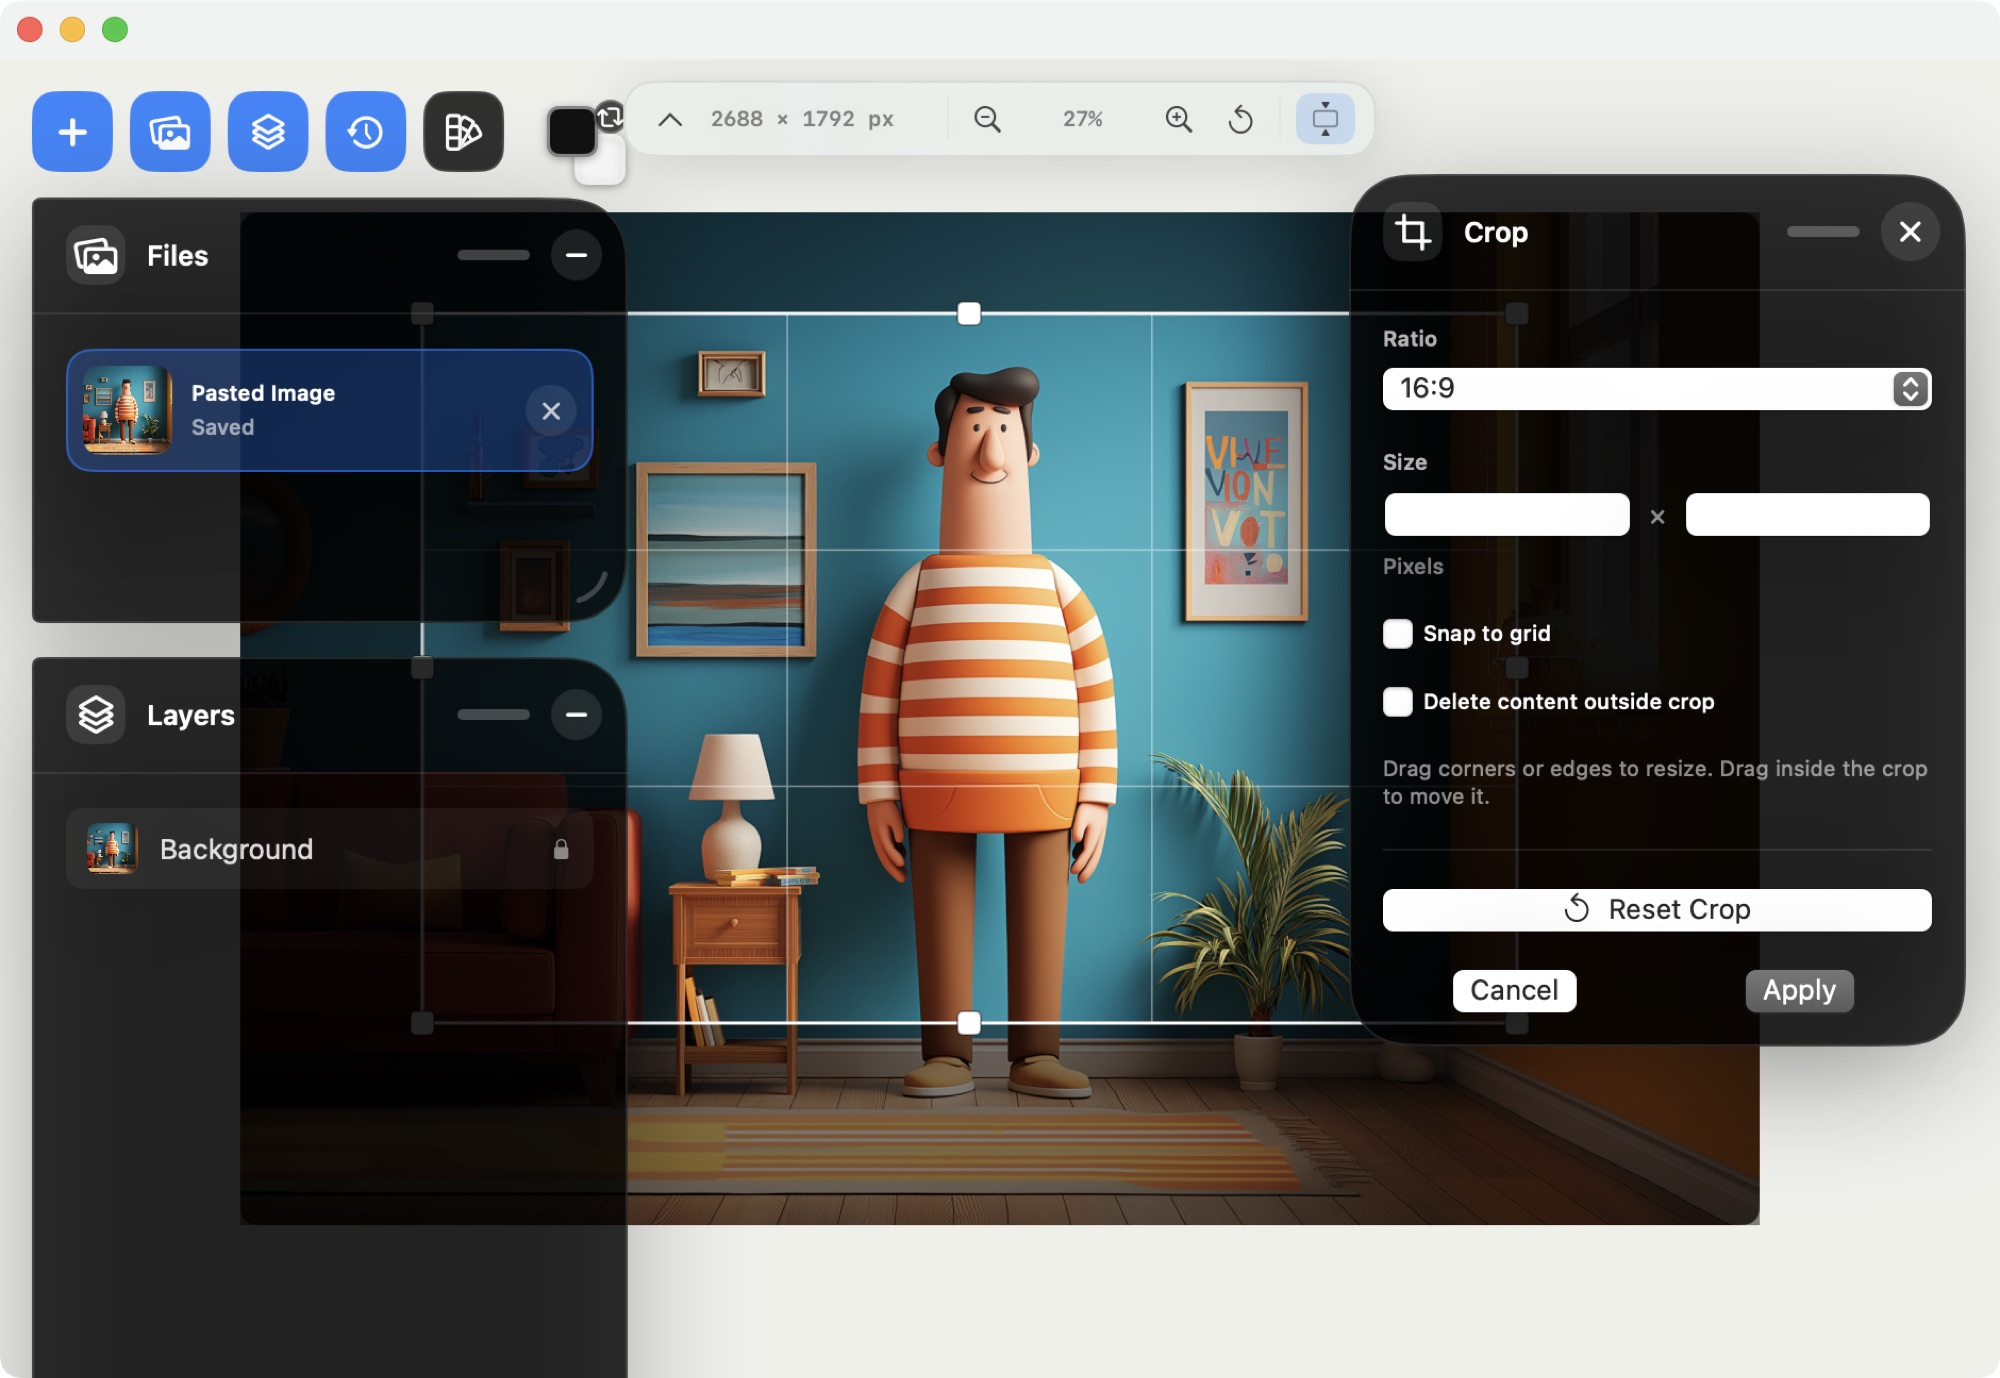
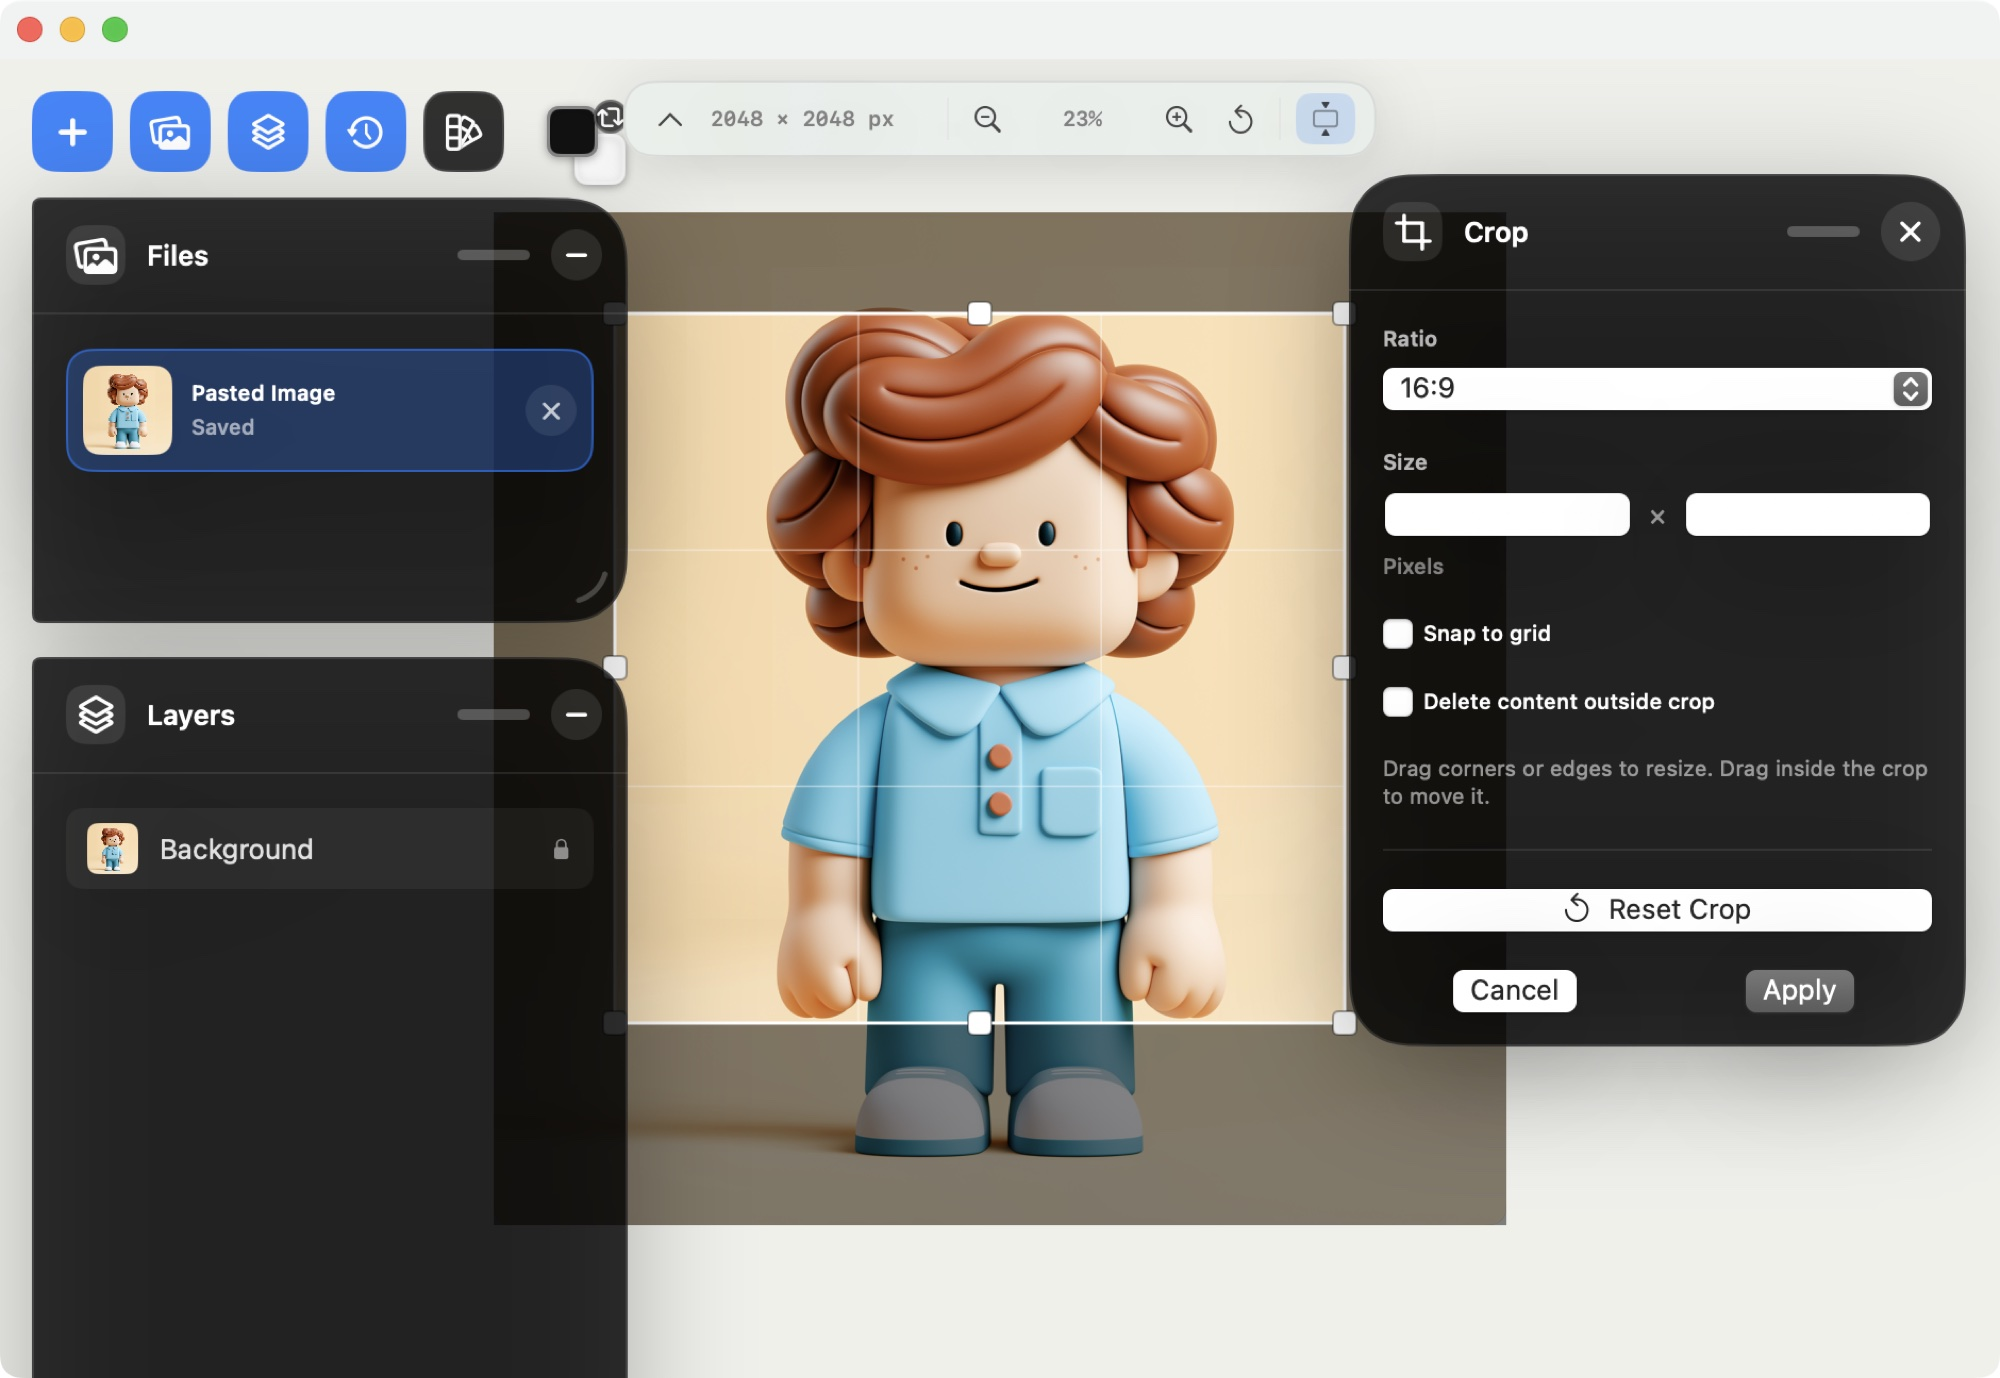
feat(website): bolder rounded sections on @sil/ui's colour strategy
Colour now follows @sil/ui's own pattern: a section sets --app-color (the
surface) and --app-text-color (the most-contrast shade of that same hue),
and everything inside inherits from those. Because the text colour is
derived rather than hand-picked, the palette no longer has to double as
ink and goes back to brand-true and bright — Fekthor's real #F0741E, a
proper light blue for ImageKid, saturated teals for the two utilities.

@sil/ui does generate --color-{name}-text automatically, but textColorShade
mixes only 80% toward the extreme, which lands at 2.4:1 on the orange and
2.3:1 on the cutout teal — unreadable as body text. The --app-text-color
values keep the same idea (a tinted dark of the same hue, not flat black)
pinned to 6:1.

Sections are rounded slabs now, inset with space between them, rather than
full-bleed stripes butted edge to edge. Even tones run the app colour at
full strength; odd tones are a soft wash of the same hue, so a page
alternates loud and quiet.

Homepage app cards are painted in their own app's colour at full strength
— that grid is what makes the family legible at a glance, so it is now the
loudest thing after the hero. Titles are larger and heavier throughout,
with tighter tracking.

The screenshot demo asset is the new character render, so every captured
app state shows the current artwork rather than the superseded painter
scene. All eight scenarios recaptured from the running app.

diff --git a/apps/website/src/styles/main.scss b/apps/website/src/styles/main.scss
@@ -2,24 +2,25 @@
   $project-colors: (
     "dark": #151820,
     "light": #f8f8f6,
-    // Per-app accents derived from the shipping app icons and accent colours,
-    // darkened to clear WCAG AA (4.5:1) on the light background, which the
-    // stylesheet test enforces for primary.
-    // ImageKid: its in-app accent. Fekthor: its real AccentColor (F0741E) —
-    // this used to be an unrelated purple. Cutout: the teal of its icon.
-    // Upscale keeps its established teal; its artwork is a skin-tone close-up
-    // with no signature hue of its own.
+    // Brand-true and bright. These are SURFACES — @sil/ui derives a matching
+    // --color-{name}-text for each, so they no longer have to double as ink.
     "primary": #0c71d1,
     "secondary": #0c71d1,
     "border": #151820,
-    "fekthor": #ba540c,
-    "upscale": #0e9a83,
-    "cutout": #157c96,
+    "imagekid": #57a8f5,
+    "fekthor": #f0741e,
+    "upscale": #12b39a,
+    "cutout": #1daace,
     "cream": #f7d9ae
   )
 );
 
 * { box-sizing: border-box; }
+
+:root {
+  // Sections are rounded slabs, not full-bleed stripes.
+  --radius-section: clamp(24px, 3vw, 48px);
+}
 
 html {
   width: 100%;
@@ -49,9 +50,9 @@ a { color: inherit; }
 button, a { -webkit-tap-highlight-color: transparent; }
 h1, h2, h3, p, ul, ol, figure { margin: 0; }
 h1, h2, h3 { font-family: var(--font-family-heading); font-weight: 600; letter-spacing: 0; }
-h1 { max-width: 18ch; font-size: clamp(var(--font-size-xxl), 5vw, var(--font-size-xxxxl)); line-height: 1.04; }
-h2 { font-size: clamp(var(--font-size-xl), 3.5vw, var(--font-size-xxxl)); line-height: 1.15; }
-h3 { font-size: var(--font-size-l); }
+h1 { max-width: 16ch; font-size: clamp(var(--font-size-xxxl), 7vw, calc(var(--font-size-xxxxl) * 1.35)); line-height: 0.98; letter-spacing: -0.02em; font-weight: 800; }
+h2 { max-width: 18ch; font-size: clamp(var(--font-size-xxl), 5vw, calc(var(--font-size-xxxxl) * 0.95)); line-height: 1.02; letter-spacing: -0.015em; font-weight: 800; }
+h3 { font-size: var(--font-size-xl); letter-spacing: -0.01em; font-weight: 700; }
 p, li { line-height: 1.6; }
 ul, ol { display: grid; gap: var(--space-s); padding-inline-start: var(--space-l); }
 pre { max-width: 100%; overflow-x: auto; margin: 0; padding: var(--space-l); border: var(--border-width) solid color-mix(in srgb, var(--color-foreground), transparent 88%); border-radius: var(--border-radius-l); background: color-mix(in srgb, var(--color-foreground), transparent 96%); }
@@ -268,41 +269,63 @@ kbd { padding: var(--space-xs) var(--space-s); border: var(--border-width) solid
 }
 
 /* Per-app accent — always an alias of a palette-mapped semantic token, never a raw value. Solid identity marks only; washes, borders, and shadows derive from background/foreground. */
-// Each app owns two roles, not one. `--app-accent` is ink: text, markers,
-// buttons — it must clear AA on a light background, which is why the accents
-// are dark. `--app-surface` is the section fill, and `--app-on-surface` is
-// whatever is legible on top of it. Fekthor runs loud (a full orange section);
-// ImageKid is a light blue tint; Upscale and Cutout are quieter blues.
+// Following @sil/ui's colour strategy: a section sets --app-color (the
+// surface) and --app-text-color (the most-contrast shade of that same hue).
+// @sil/ui generates --color-{name}-text automatically, but its 80% mix only
+// clears 2.4:1 on mid-lightness colours like the orange, so these are pinned
+// to a tinted dark that holds 6:1 — same idea, enough contrast for body text.
 .home-page, .product-page {
+  --app-color: var(--color-imagekid);
+  --app-text-color: #0d273e;
   --app-accent: var(--color-primary);
-  --app-surface: #dceefb;
-  --app-on-surface: #10243a;
 }
-.section-tint {
-  background: var(--app-surface);
-  color: var(--app-on-surface);
+
+// A section painted in its app's colour. Everything inside inherits the
+// derived text colour, so nothing has to be restyled per app.
+.section-bold {
+  background: var(--app-color);
+  color: var(--app-text-color);
+  border-radius: var(--radius-section);
+
+  h1, h2, h3, p, li, strong { color: var(--app-text-color); }
+  .product-page__eyebrow,
+  .home-page__eyebrow { color: color-mix(in srgb, var(--app-text-color), transparent 30%); }
 }
-// The loud treatment keeps Fekthor's real accent orange at full strength and
-// puts dark ink on it (6.1:1). Darkening the orange enough for white text
-// (#c1570d) muddies the brand colour, so ink wins.
-.section-tint--loud {
-  --app-accent: #151820;
-  padding-block: var(--space-xxl);
-}
-.home-page__app-card--imagekid, .home-page__showcase--imagekid, .product-page--imagekid, .product-page__family-card--imagekid { --app-accent: var(--color-primary); }
-.home-page__app-card--fekthor, .home-page__showcase--fekthor, .product-page--fekthor, .product-page__family-card--fekthor { --app-accent: var(--color-fekthor); --app-surface: #f0741e; --app-on-surface: #151820; }
-.home-page__app-card--upscale, .product-page--upscale, .product-page__family-card--upscale { --app-accent: var(--color-upscale); --app-surface: #eaf2f8; --app-on-surface: #10243a; }
-.home-page__app-card--cutout, .product-page--cutout, .product-page__family-card--cutout { --app-accent: var(--color-cutout); --app-surface: #e8f0f4; --app-on-surface: #10243a; }
+
+.home-page__app-card--imagekid, .home-page__showcase--imagekid, .product-page--imagekid, .product-page__family-card--imagekid { --app-color: var(--color-imagekid); --app-text-color: #0d273e; --app-accent: var(--color-primary); }
+.home-page__app-card--fekthor, .home-page__showcase--fekthor, .product-page--fekthor, .product-page__family-card--fekthor { --app-color: var(--color-fekthor); --app-text-color: #2b1302; --app-accent: #b4530c; }
+.home-page__app-card--upscale, .product-page--upscale, .product-page__family-card--upscale { --app-color: var(--color-upscale); --app-text-color: #032621; --app-accent: #0a7a68; }
+.home-page__app-card--cutout, .product-page--cutout, .product-page__family-card--cutout { --app-color: var(--color-cutout); --app-text-color: #05232a; --app-accent: #157c96; }
 
 /* Home — app family grid */
 .home-page__apps { scroll-margin-top: calc(var(--space-xxl) * 2); display: grid; gap: var(--space-xl); }
 .home-page__app-grid { display: grid; grid-template-columns: repeat(2, minmax(0, 1fr)); gap: var(--space-m); }
-.home-page__app-card { min-width: 0; display: grid; grid-template-columns: auto minmax(0, 1fr); grid-template-areas: "icon copy" "meta meta"; align-content: start; gap: var(--space-s) var(--space-l); padding: var(--space-l); border-radius: var(--border-radius-l); background: color-mix(in srgb, var(--color-background), var(--color-foreground) 5%); border: var(--border-width) solid transparent; text-decoration: none; transition: border-color 0.15s ease, transform 0.15s ease; }
-.home-page__app-card:hover { border-color: color-mix(in srgb, var(--color-foreground), transparent 70%); transform: translateY(-2px); }
-.home-page__app-card--flagship { background: color-mix(in srgb, var(--color-foreground), transparent 92%); }
-// App icons are exported from the asset catalog with their squircle and
-// shadow already in the artwork. Adding a radius or shadow here clips the
-// corners a second time and doubles the shadow, so they get neither.
+// Each card wears its own app's colour at full strength — this is the grid
+// that makes the family legible at a glance, so it should be the loudest
+// thing on the page after the hero.
+.home-page__app-card {
+  min-width: 0;
+  display: grid;
+  grid-template-columns: auto minmax(0, 1fr);
+  grid-template-areas: "icon copy" "meta meta";
+  align-content: start;
+  gap: var(--space-m) var(--space-l);
+  padding: clamp(var(--space-l), 3vw, var(--space-xl));
+  border-radius: var(--radius-section);
+  background: var(--app-color);
+  color: var(--app-text-color);
+  text-decoration: none;
+  transition: transform 0.18s ease, box-shadow 0.18s ease;
+
+  &:hover {
+    transform: translateY(-4px);
+    box-shadow: 0 18px 40px color-mix(in srgb, var(--app-color), transparent 55%);
+  }
+}
+.home-page__app-card--flagship { grid-column: span 2; }
+.home-page__app-name { font-size: clamp(var(--font-size-xl), 2.6vw, var(--font-size-xxl)); font-weight: 800; letter-spacing: -0.015em; }
+.home-page__app-tagline { font-size: var(--font-size-l); font-weight: 600; opacity: 0.85; }
+.home-page__app-summary, .home-page__app-meta { opacity: 0.72; }
 .home-page__app-icon { grid-area: icon; width: var(--space-xxl); height: var(--space-xxl); }
 .home-page__app-copy { grid-area: copy; display: grid; gap: var(--space-xs); align-content: start; }
 .home-page__app-name { font-family: var(--font-family-heading); font-weight: 600; font-size: var(--font-size-l); }
@@ -313,9 +336,10 @@ kbd { padding: var(--space-xs) var(--space-s); border: var(--border-width) solid
 .home-page__app-status::before { width: var(--space-s); aspect-ratio: 1; border-radius: 50%; background: var(--app-accent); content: ""; }
 
 /* Home — flagship showcases */
-.home-page__showcase { display: grid; grid-template-columns: minmax(0, 1.08fr) minmax(0, 0.92fr); align-items: center; gap: var(--space-xl); padding: var(--space-xl); border-radius: var(--border-radius-xl); background: color-mix(in srgb, var(--color-background), var(--color-foreground) 5%); }
+.home-page__showcase { display: grid; grid-template-columns: minmax(0, 1.08fr) minmax(0, 0.92fr); align-items: center; gap: clamp(var(--space-l), 4vw, var(--space-xxl)); padding: clamp(var(--space-l), 4vw, calc(var(--space-xxl) * 1.2)); border-radius: var(--radius-section); background: color-mix(in srgb, var(--app-color), var(--color-background) 86%); }
 .home-page__showcase > * { min-width: 0; }
-.home-page__showcase--fekthor { background: color-mix(in srgb, var(--color-foreground), transparent 92%); }
+.home-page__showcase--fekthor { background: var(--app-color); color: var(--app-text-color); }
+.home-page__showcase--fekthor .home-page__eyebrow { color: color-mix(in srgb, var(--app-text-color), transparent 30%); }
 .home-page__showcase-copy { display: grid; gap: var(--space-m); align-content: center; }
 .home-page__showcase-brand { display: flex; align-items: center; gap: var(--space-s); }
 
@@ -364,22 +388,30 @@ kbd { padding: var(--space-xs) var(--space-s); border: var(--border-width) solid
   &__feature-copy { color: color-mix(in srgb, var(--color-foreground), transparent 32%); font-size: var(--font-size-s); }
 
   &__band { margin-inline: calc(50% - 50vw); padding: var(--space-xxl) max(var(--space-xl), calc((100vw - 1180px) / 2 + var(--space-xl))); }
-  // Bands carry the app's colour, not a neutral grey. Even tones run the
-  // surface at full strength — a whole orange section for Fekthor, a light
-  // blue one for ImageKid — with odd tones as a soft wash between them, so
-  // the page alternates loud/quiet instead of shouting all the way down.
+  // Bands are rounded slabs in the app's own colour, inset from the page edge
+  // with space between them, rather than full-bleed stripes butted together.
+  // Even tones go bold (the full colour); odd tones stay quiet.
+  &__band {
+    margin-inline: 0;
+    margin-block: var(--space-l);
+    padding: clamp(var(--space-xl), 6vw, calc(var(--space-xxl) * 1.6)) clamp(var(--space-l), 4vw, var(--space-xxl));
+    border-radius: var(--radius-section);
+  }
   &__band--tone-1, &__band--tone-3, &__band--tone-5 {
-    background: color-mix(in srgb, var(--app-surface), var(--color-background) 62%);
+    background: color-mix(in srgb, var(--app-color), var(--color-background) 88%);
   }
   &__band--tone-2, &__band--tone-4 {
-    background: var(--app-surface);
-    color: var(--app-on-surface);
+    background: var(--app-color);
+    color: var(--app-text-color);
 
+    .product-page__band-title,
     .product-page__band-lead,
-    .product-page__band-list li { color: color-mix(in srgb, var(--app-on-surface), transparent 18%); }
-    .product-page__eyebrow { color: color-mix(in srgb, var(--app-on-surface), transparent 32%); }
-    .product-page__band-list li::before { background: var(--app-on-surface); }
+    .product-page__band-list li { color: var(--app-text-color); }
+    .product-page__band-lead { opacity: 0.82; }
+    .product-page__eyebrow { color: color-mix(in srgb, var(--app-text-color), transparent 32%); }
+    .product-page__band-list li::before { background: var(--app-text-color); }
   }
+
   &__band-inner { width: min(1180px, 100%); margin: 0 auto; display: grid; grid-template-columns: minmax(0, 1fr) minmax(0, 1fr); align-items: center; gap: var(--space-xl); }
   &__band--image-left &__band-copy { order: 2; }
   &__band--image-left &__band-media, &__band--image-left &__band-panel { order: 1; }

diff --git a/apps/website/src/pages/ImageKidPage.vue b/apps/website/src/pages/ImageKidPage.vue
@@ -41,7 +41,7 @@ const data: ProductPageData = {
       copy:
         "One tap gives you an instant cut-out. If the shot is harder — flyaway hair, a busy background — grab the best-quality model, which also runs on your Mac. Then refine the mask by hand if you want the last word.",
       bullets: ["Built-in remover, no download", "Optional best-quality on-device model", "Manual refine brush"],
-      image: "/media/app/background-refine.jpg",
+      image: "/media/app/background.jpg",
       imageAlt: "Refining a background cut-out in ImageKid",
       imageSide: "right",
       tone: 1
@@ -72,7 +72,7 @@ const data: ProductPageData = {
       title: "Magic, and the honest asterisk.",
       copy:
         "Magic is deliberately separate from the local tools. Describe an edit and ImageKid sends the image and prompt to your configured AI provider using your own key. No key, no sending — everything else stays local.",
-      image: "/media/app/magic-provider-warning.jpg",
+      image: "/media/app/magic.jpg",
       imageAlt: "The Magic provider key notice in ImageKid",
       imageSide: "left",
       tone: 4
